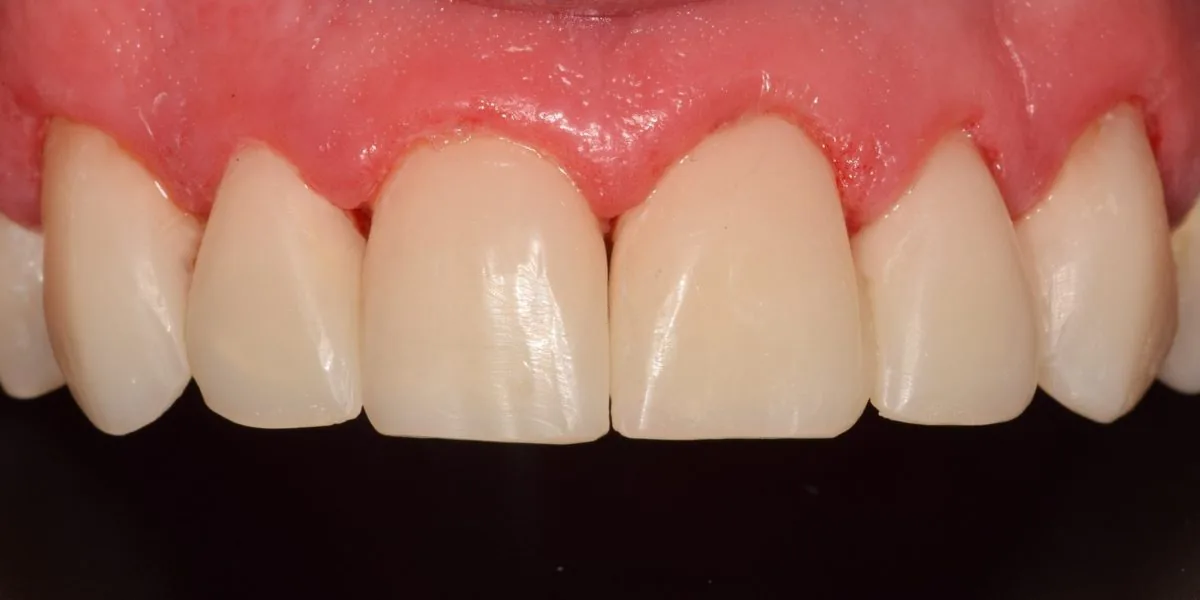
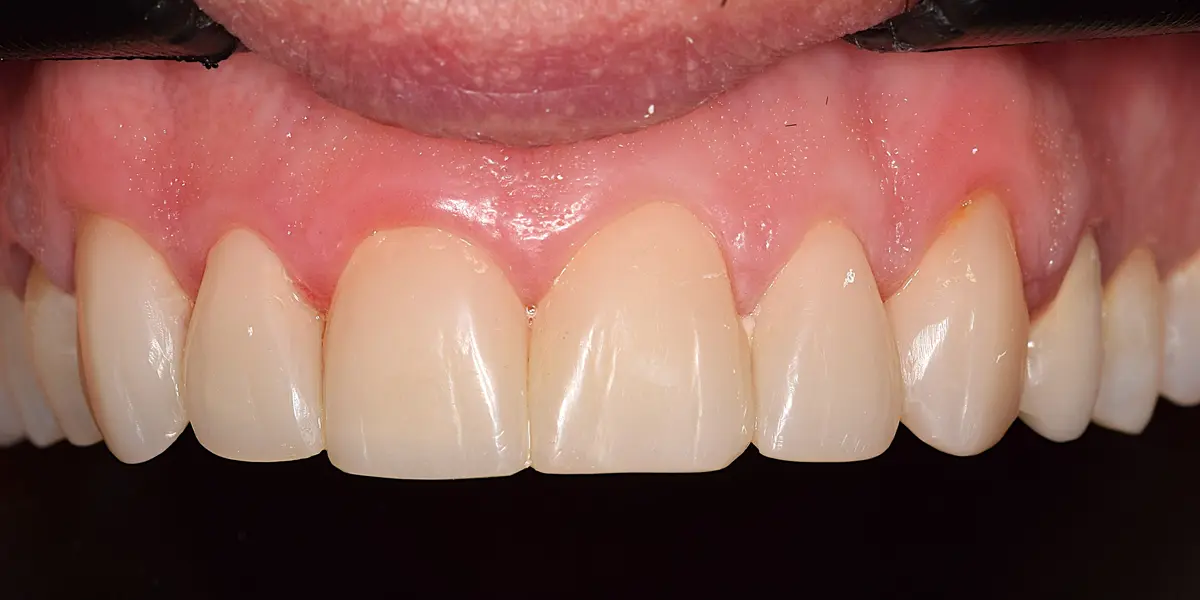
consultorio: textos en tono neutral y nueva foto final del diseño de sonrisa
Claude-Session: https://claude.ai/code/session_01E6PHJsjYvQSRqqDjF26Xuq

diff --git a/consultorio/index.html b/consultorio/index.html
@@ -81,7 +81,7 @@
   </div>
   <aside class="hero__card reveal" aria-label="Datos de contacto">
     <p><svg viewBox="0 0 24 24" aria-hidden="true"><use href="#i-pin"/></svg>Aráoz 2879, 1° D · Buenos Aires</p>
-    <p><svg viewBox="0 0 24 24" aria-hidden="true"><use href="#i-clock"/></svg>Te respondemos en el día</p>
+    <p><svg viewBox="0 0 24 24" aria-hidden="true"><use href="#i-clock"/></svg>Respuesta en el día</p>
   </aside>
 </section>
 
@@ -98,8 +98,8 @@
   <div class="wrap">
     <div class="head">
       <p class="kicker reveal">01 · El consultorio</p>
-      <h2 class="reveal">Luz natural y un pulmón verde, para que estés tranquilo</h2>
-      <p class="head__lead reveal">Los dos consultorios tienen ventanales sobre un jardín. Un entorno pensado para que cada visita sea calma, sin apuro y con tiempo para explicarte todo.</p>
+      <h2 class="reveal">Luz natural y un pulmón verde para estar tranquilos</h2>
+      <p class="head__lead reveal">Los dos consultorios tienen ventanales sobre un jardín. Un entorno pensado para que cada visita sea calma, sin apuros y con el tiempo necesario para explicar los procedimientos.</p>
     </div>
     <div class="tour" aria-label="Fotos del consultorio">
       <figure class="tour__a reveal"><button class="zoom" type="button" data-full="assets/img/sala-espera.webp"><img src="assets/img/sala-espera.webp" alt="Sala de espera con sillón gris y cuadros" width="1400" height="1050" loading="lazy"></button><figcaption>Sala de espera</figcaption></figure>
@@ -113,8 +113,7 @@
     <div class="vtour">
       <div class="vtour__txt reveal">
         <h3>Recorrido en video</h3>
-        <p>Pasá por la sala de espera y los dos consultorios antes de venir.</p>
-        <p class="swipe" aria-hidden="true">Deslizá para ver más →</p>
+        <p class="swipe" aria-hidden="true">Deslizar para ver más →</p>
       </div>
       <div class="vtour__grid">
         <figure class="phone reveal"><video data-src="assets/video/sala-espera.mp4" poster="assets/video/sala-espera.webp" muted loop playsinline preload="none" aria-label="Video de la sala de espera"></video><figcaption>Sala de espera</figcaption></figure>
@@ -146,7 +145,7 @@
       <li class="reveal">
         <svg viewBox="0 0 48 48" aria-hidden="true"><path d="M8 20c5-4 9-4 12-1.5 1.2 1 2.7 1.5 4 1.5s2.8-.5 4-1.5C31 16 35 16 40 20"/><path d="M14 22.5c.3 4.5 1.3 9 2.6 12.5M24 21v14M34 22.5c-.3 4.5-1.3 9-2.6 12.5"/><path d="M8 20c2 6 9 9 16 9s14-3 16-9"/></svg>
         <h3>Mantenimiento periodontal</h3>
-        <p>Controles periódicos y tratamiento periodontal para cuidar tus encías y tus dientes a largo plazo.</p>
+        <p>Controles periódicos y tratamiento periodontal para cuidar encías y dientes a largo plazo.</p>
       </li>
       <li class="reveal">
         <svg viewBox="0 0 48 48" aria-hidden="true"><rect x="7" y="10" width="34" height="22" rx="3"/><path d="M18 38h12M24 32v6"/><path d="M16 23c2-4 4-6 6-3s4 1 5-1 3-3 5 1"/><path d="M12 15h4"/></svg>
@@ -157,13 +156,13 @@
 
     <div class="steps">
       <div class="steps__intro reveal">
-        <h3>Atención clínica con criterio y sin apuro</h3>
-        <p>Cada tratamiento empieza con un diagnóstico completo y una explicación clara del plan de trabajo. Te mostramos en pantalla lo que observamos para que decidas con información.</p>
+        <h3>Atención clínica con criterio y paciencia</h3>
+        <p>Cada tratamiento empieza con un diagnóstico completo y una explicación clara del plan de trabajo. En la consulta mostramos en pantalla lo que observamos, para que cada decisión se tome con información.</p>
       </div>
       <ol class="steps__list">
         <li class="reveal"><b>Diagnóstico completo</b><span>Revisión, fotos y escaneo intraoral cuando hace falta.</span></li>
         <li class="reveal"><b>Plan explicado en pantalla</b><span>Ves lo mismo que vemos nosotros y elegimos juntos el camino.</span></li>
-        <li class="reveal"><b>Tratamiento y seguimiento</b><span>Quien hizo el trabajo lo controla y te acompaña con el tiempo.</span></li>
+        <li class="reveal"><b>Tratamiento y seguimiento</b><span>Quien hizo el trabajo lo controla y acompaña al paciente a lo largo del tiempo.</span></li>
       </ol>
     </div>
   </div>
@@ -192,7 +191,7 @@
         <li><h4><i>3</i>Cirugía</h4>
           <div class="sens" data-hidden="true">
             <div class="pics"><figure style="--r:.433"><button class="zoom" type="button" data-full="assets/img/implante-5-pieza.webp" tabindex="-1"><img src="assets/img/implante-5-pieza.webp" alt="Pieza 11 extraída" width="280" height="646" loading="lazy"></button><figcaption>Pieza 11 extraída</figcaption></figure><figure style="--r:1.501"><button class="zoom" type="button" data-full="assets/img/implante-6-conectivo.webp" tabindex="-1"><img src="assets/img/implante-6-conectivo.webp" alt="Toma del injerto de tejido conectivo" width="1024" height="682" loading="lazy"></button><figcaption>Toma del injerto de tejido conectivo</figcaption></figure><figure style="--r:1.501"><button class="zoom" type="button" data-full="assets/img/implante-7-oclusal.webp" tabindex="-1"><img src="assets/img/implante-7-oclusal.webp" alt="Implante e injerto óseo, vista oclusal" width="1300" height="866" loading="lazy"></button><figcaption>Implante e injerto óseo, vista oclusal</figcaption></figure></div>
-            <div class="sens__ov" role="group" aria-label="Aviso de imágenes sensibles"><svg viewBox="0 0 24 24" aria-hidden="true"><use href="#i-eye"/></svg><p><b>Imágenes intraquirúrgicas</b><br>Muestran la cirugía real y pueden resultar impactantes. Tocá el botón solo si querés verlas.</p><button type="button" class="btn btn--sm sens__show">Ver imágenes</button></div>
+            <div class="sens__ov" role="group" aria-label="Aviso de imágenes sensibles"><svg viewBox="0 0 24 24" aria-hidden="true"><use href="#i-eye"/></svg><p><b>Imágenes intraquirúrgicas</b><br>Muestran la cirugía real y pueden resultar impactantes. Se muestran solo al presionar el botón.</p><button type="button" class="btn btn--sm sens__show">Ver imágenes</button></div>
           </div>
           <button type="button" class="sens__hide" hidden>Ocultar imágenes sensibles</button></li>
         <li><h4><i>4</i>Provisorio y resultado</h4>
@@ -300,7 +299,7 @@
     <div class="contact__txt">
       <p class="kicker reveal">06 · Contacto</p>
       <h2 class="reveal">Solicitar turno</h2>
-      <p class="reveal">Escribinos por WhatsApp o por mail y te respondemos en el día. Si ya fuiste paciente, podés dejarnos tu opinión en Google Maps.</p>
+      <p class="reveal">Consultas por WhatsApp o por mail, con respuesta en el día. Quienes ya son pacientes pueden dejar su opinión en Google Maps.</p>
       <div class="contact__ctas reveal">
         <a class="btn" href="https://wa.me/5491124037668?text=Hola%2C%20quisiera%20solicitar%20un%20turno." target="_blank" rel="noopener"><svg viewBox="0 0 24 24" aria-hidden="true"><use href="#i-wa"/></svg>Escribir por WhatsApp</a>
         <a class="btn btn--ghost" href="mailto:consultaodontologica@yahoo.com?subject=Consulta%20odontol%C3%B3gica">Enviar un mail</a>
